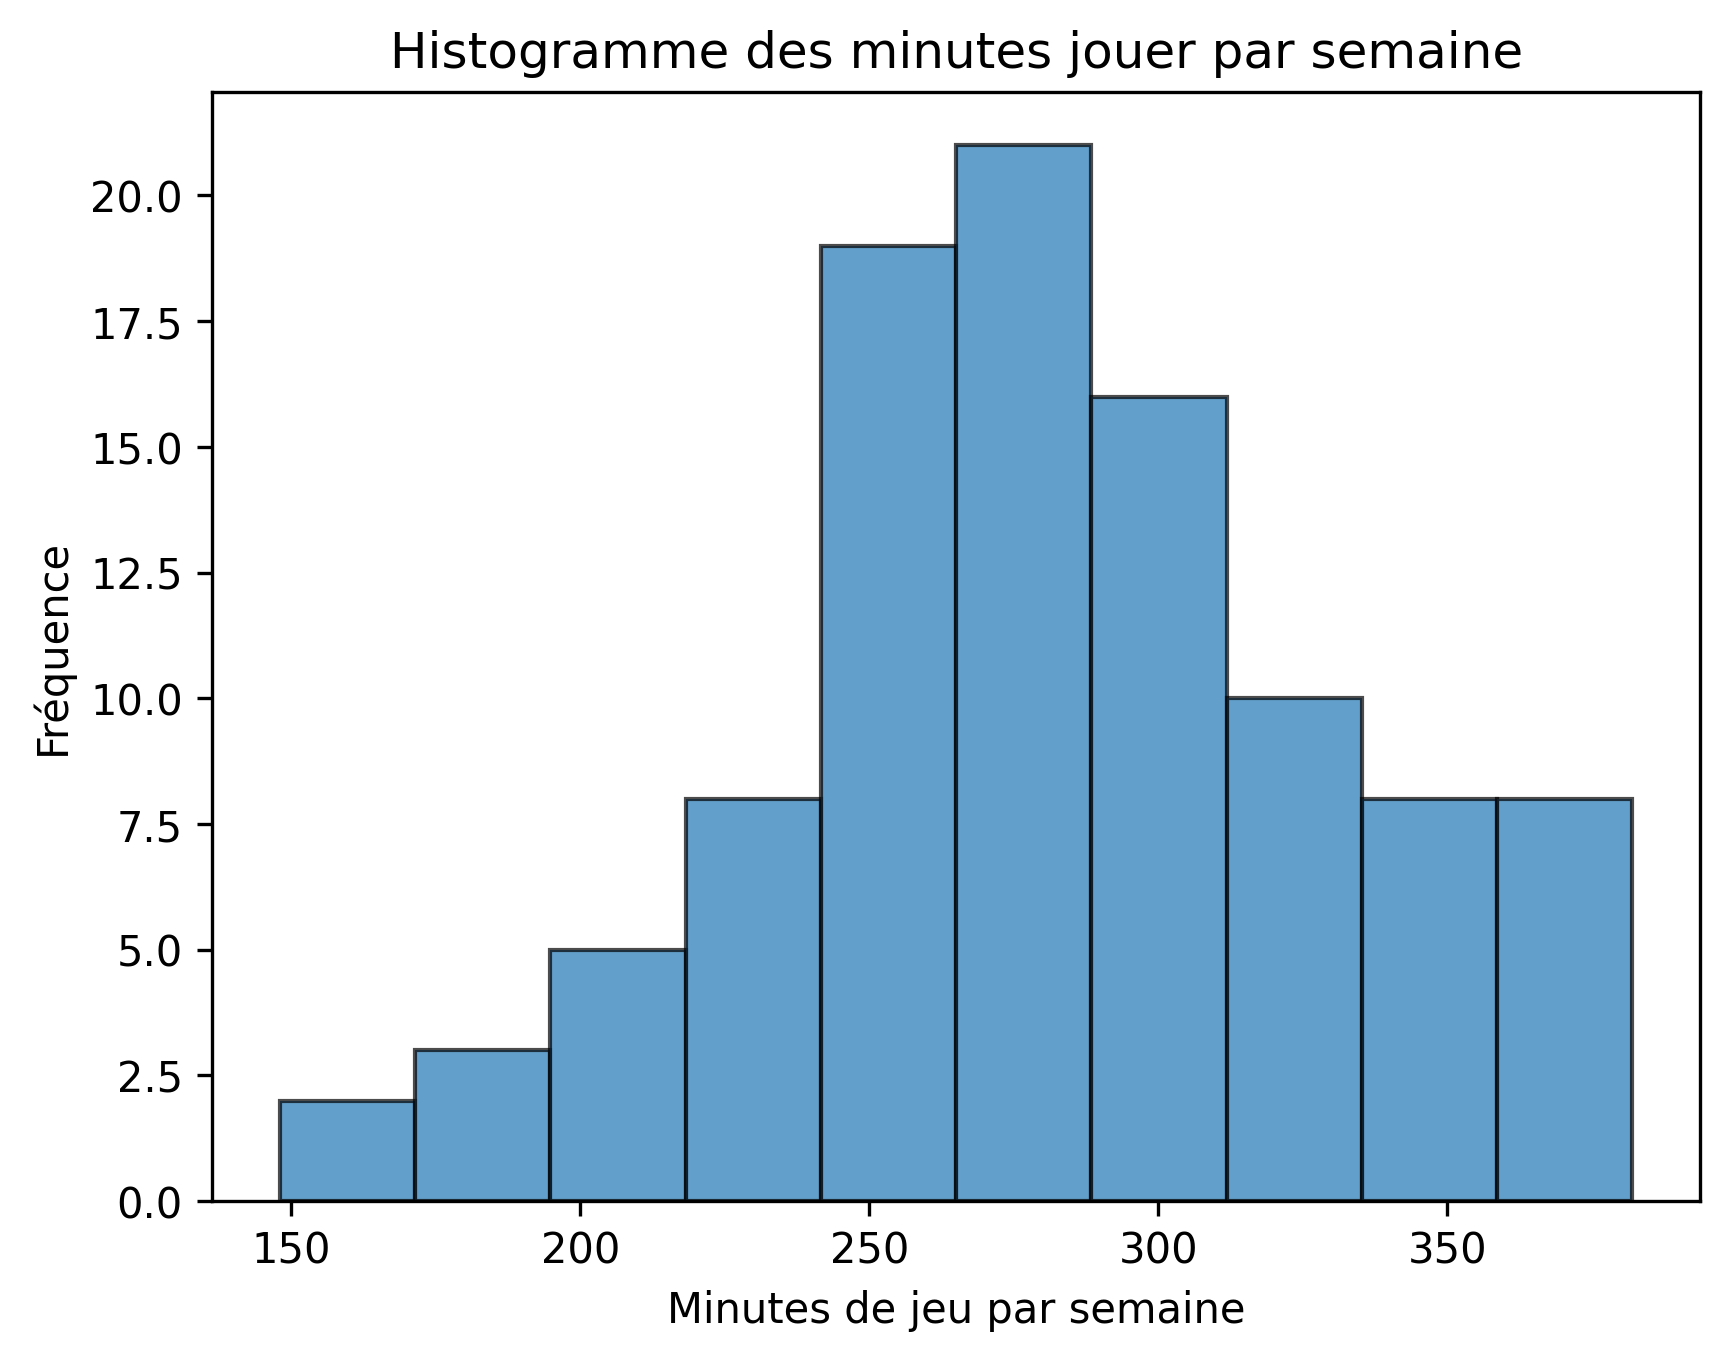
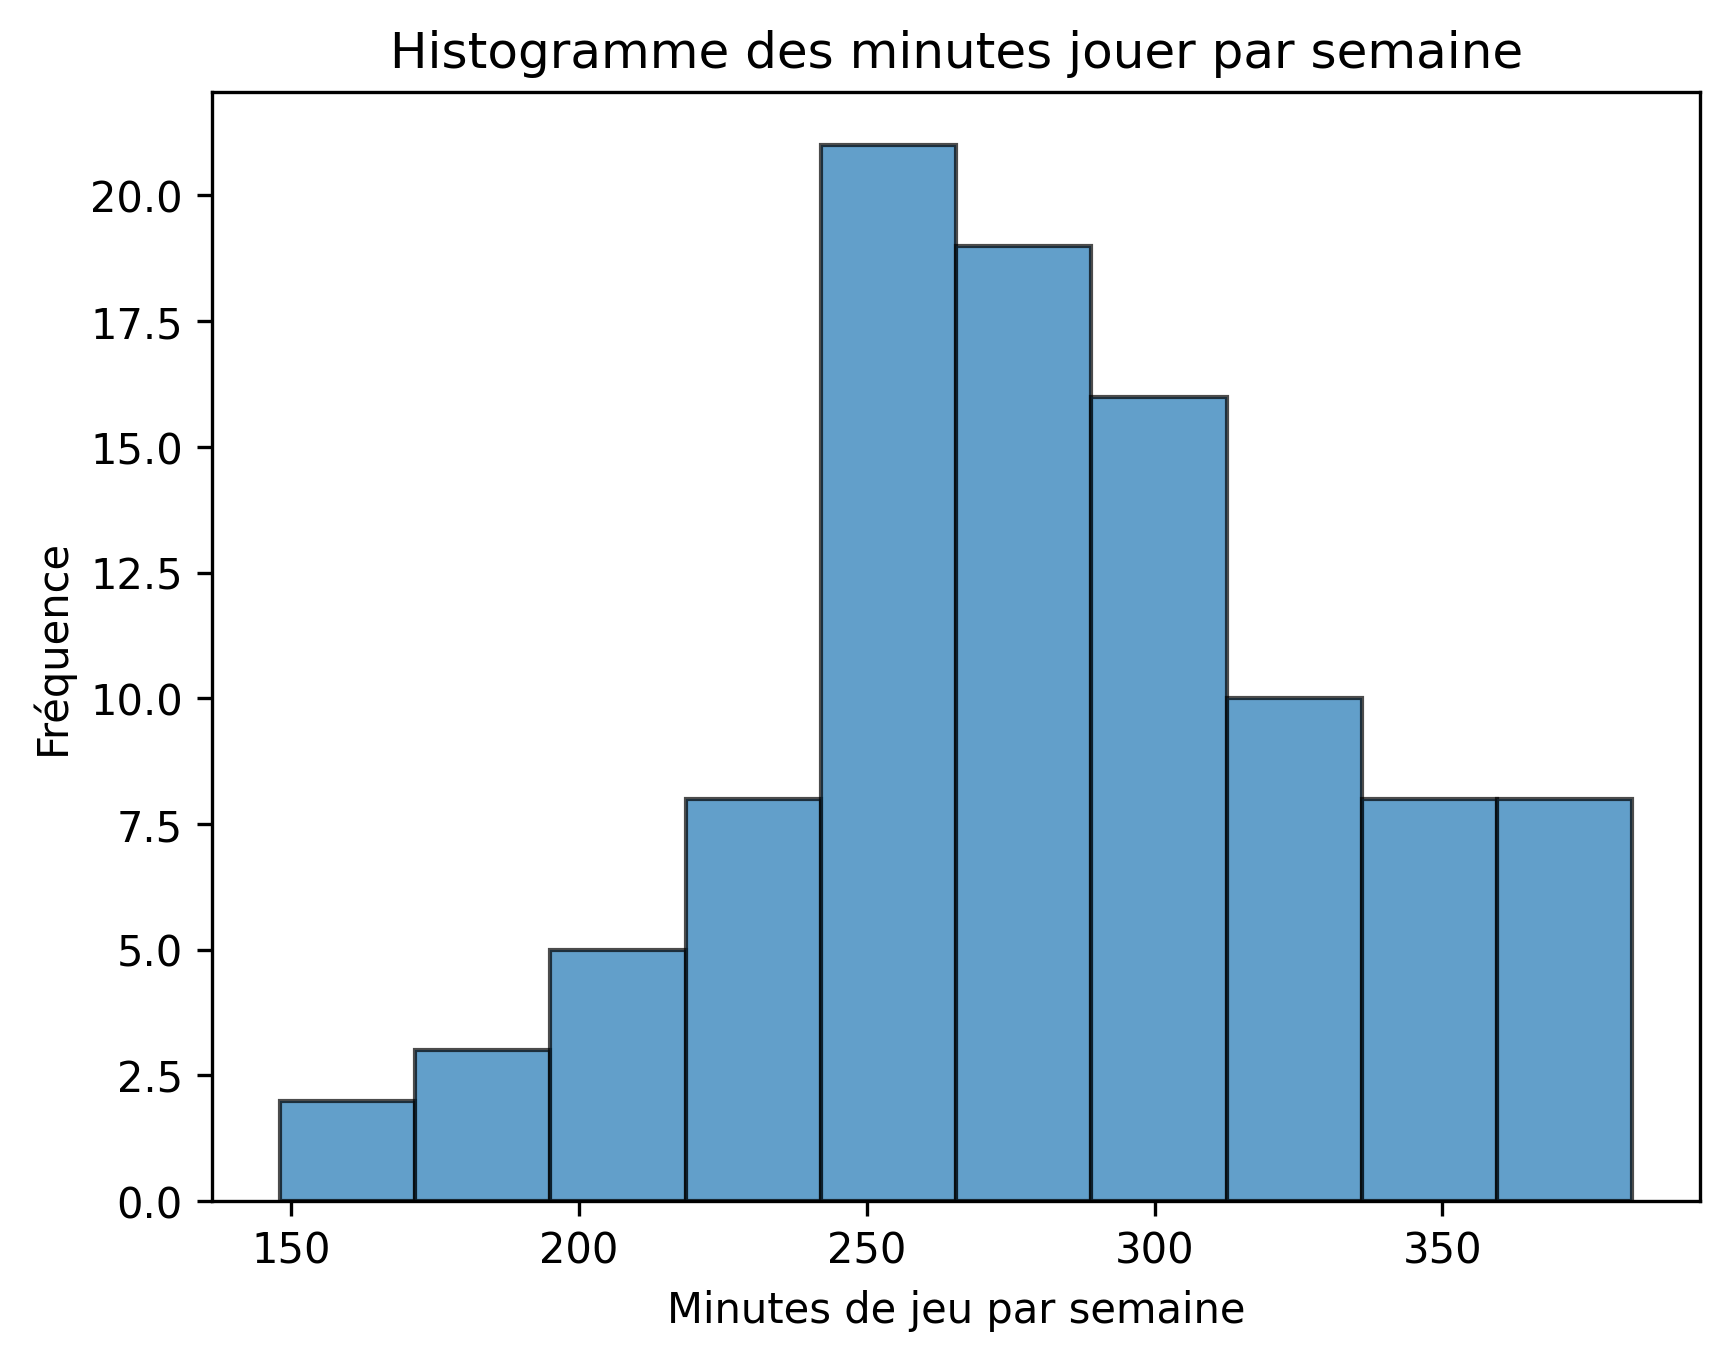
done?!

diff --git a/main.py b/main.py
@@ -1,8 +1,9 @@
 import numpy as np
 import matplotlib.pyplot as plt
 import math
-import statistics as stat
 import scipy.special
+import statistics as stat
+from scipy.optimize import root_scalar
 import scipy.stats as stats
 
 def get_values(file_path):
@@ -91,12 +92,12 @@ def display_adjustment_table(adjustment_data):
         [
             bin['class'],
             f"[{bin['lower_limit']:.1f} - {bin['upper_limit']:.1f}[",
-            f"{bin['lower_limit_z']:.2f}",
-            f"{bin['upper_limit_z']:.2f}",
-            f"{bin['pi']:.2f}",
+            f"{bin['lower_limit_z']:.3f}",
+            f"{bin['upper_limit_z']:.3f}",
+            f"{bin['pi']:.3f}",
             bin['oi'],
-            f"{bin['ei']:.2f}",
-            f"{bin['wtf']:.2f}",
+            f"{bin['ei']:.3f}",
+            f"{bin['wtf']:.3f}",
         ]
         for bin in adjustment_data
     ]
@@ -116,7 +117,7 @@ def get_histogram_data(data):
     bin_number = int(np.sqrt(len(data)))
     min_value = np.min(data)
     max_value = np.max(data)
-    interval_len = (max_value - min_value) / bin_number
+    interval_len = ((max_value - min_value) / bin_number) + 0.1
 
     bins = []
     cumul_freq = 0
@@ -162,6 +163,7 @@ def calculate_confidence_interval(data):
     return lower_interval, upper_interval
 
 def get_adjustment_data(bins, mean, std):
+    n = 100
     adjustement_data = []
 
     for bin in bins:
@@ -169,7 +171,7 @@ def get_adjustment_data(bins, mean, std):
         upper_limit_z = (bin['upper_limit'] - mean) / std
         pi = stats.norm.cdf(upper_limit_z) - stats.norm.cdf(lower_limit_z)
         oi = bin['freq']
-        ei = oi * pi
+        ei = pi * n
         wtf_is_that = (oi - ei)**2 / ei
         adjustement_data.append({
             'class': bin['class'],
@@ -183,18 +185,19 @@ def get_adjustment_data(bins, mean, std):
             'wtf': wtf_is_that
         })
 
-    x = 0
+    khi_deux = 0
     for bin in adjustement_data:
-        x += bin['wtf']
+        khi_deux += bin['wtf']
 
-    other_x = 14.07
-
-    if x > other_x:
+    khi_critique = 14.07
+    print(f"khi deux calculé: {khi_deux}")
+    if khi_deux > khi_critique:
         print(f"Les données ne proviennent pas d'une distribution normale")
     else:
         print(f"Les données proviennent d'une distribution normale")
 
     return adjustement_data
+
 
 
 def mandat_2():
@@ -206,21 +209,91 @@ def mandat_2():
     display_histogram_table(bins)
     adjustement_data = get_adjustment_data(bins, data_stats['mean'], data_stats['std'])
     display_adjustment_table(adjustement_data)
-    # print(calculate_confidence_interval(values))
+    print(f"Valeurs de l'intervalle de confiance: {calculate_confidence_interval(values)}")
+
+def F(x):
+    if x >= 0:
+        return 0.5 * (1 + np.sqrt(1 - np.exp(-1*x**2 * np.sqrt(np.pi/8))))
+    else:
+        return 1 - F(abs(x))
+
+
+def inverse_F(u):
+    # Fonction racine pour root_scalar
+    def func(x):
+        return F(x) - u
+
+    # Résolution numérique de la fonction racine
+    if u < 0.5:
+        sol = root_scalar(func, bracket=[-10, 0], method='bisect')
+    else:
+        sol = root_scalar(func, bracket=[0, 10], method='bisect')
+
+    return sol.root
 
 def mandat_3():
-    N = 10_000
-    arrival_rate = 5
-    mean = 1/arrival_rate
-    x = np.linspace(0, 5, 1000)
-    P = (arrival_rate**x * np.exp(-arrival_rate * x))/scipy.special.factorial(x) # mauvaise formule
+    lambda_values = [10, 50, 100]
+    values = get_values("./TempsDeJeu.txt")
+    mean = stat.mean(values)
+    std = stat.stdev(values)
+    P = np.random.exponential(10, 10_000)
+    Q = std * np.random.randn(10_000) + mean
 
-    print(math.factorial(5))
+    # Transformation inverse pour P (distribution exponentielle)
+    U = np.random.uniform(0, 1, 10_000)
 
-    plt.plot(x, P)
+    # Transformation pour Q (distribution normale)
+    Q_inv = np.array([inverse_F(u) for u in U]) * std + mean
+
+    plt.hist(Q_inv, bins=100, alpha=0.7, edgecolor='black')
+    plt.title('Courbe de la valeur Q')
+    plt.xlabel('Temps total joué par un joueur (min)')
+    plt.ylabel('Fréquence')
+    plt.savefig("courbe_normale", bbox_inches='tight', dpi=300)
     plt.show()
+
+    for lam in lambda_values:
+
+        P_inv = -np.log(1 - U) / lam
+
+        plt.figure(figsize=(12, 12))
+        plt.subplot(2, 1, 1)
+        plt.hist(P_inv, bins=100, alpha=0.7, edgecolor='black')
+        plt.title(f'Courbe de la valeur P (λ = {lam})')
+        plt.xlabel('Temps entre chaque arrivé (min)')
+        plt.ylabel('Fréquence')
+
+        # Calculate cumulative arrival times
+        arrival_times = np.cumsum(P_inv)  # Each element is a cumulative arrival time
+
+        # Calculate departure times
+        departure_times = arrival_times + Q_inv  # Each element is the time when a player stops playing
+
+        # Create a time array from 0 to 1000 (or however long you want to observe)
+        t = np.arange(0, np.max(departure_times))
+
+        # Count active players at each time t
+        active_player_counts = []
+        for current_time in t:
+            # Count players who have joined but not yet left by current_time
+            active_players = np.sum((arrival_times <= current_time) & (departure_times > current_time))
+            active_player_counts.append(active_players)
+
+        print(f"Nombre de joueurs actifs en moyenne: {stat.mean(active_player_counts)}")
+
+        # Plot the number of active players over time
+        plt.subplot(2, 1, 2)
+        plt.plot(t, active_player_counts, color='blue')
+        plt.title(f'Nombre de joueurs actifs (λ = {lam})')
+        plt.xlabel('Temps (min)')
+        plt.ylabel('Nombre de joueurs actifs')
+        plt.savefig(f"lambda_{lam}", bbox_inches='tight', dpi=300)
+        plt.show()
+
+
+
 
 
 if __name__ == '__main__':
-    mandat_2()
-    # mandat_3()
+    # mandat_2()
+    mandat_3()
